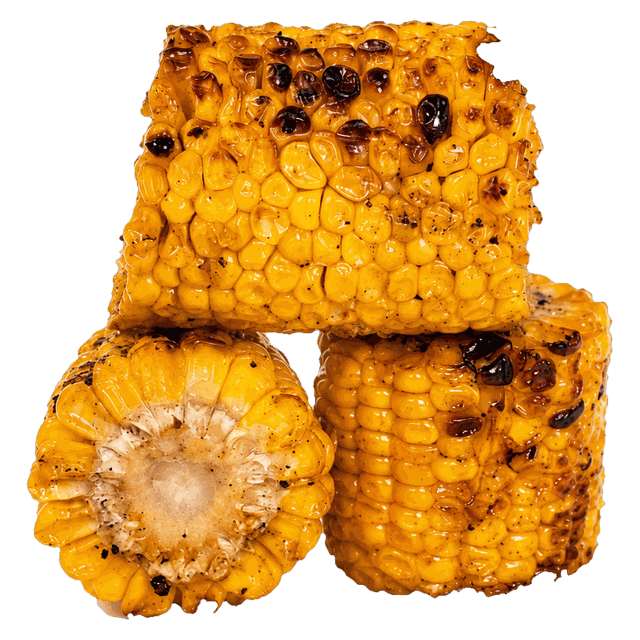
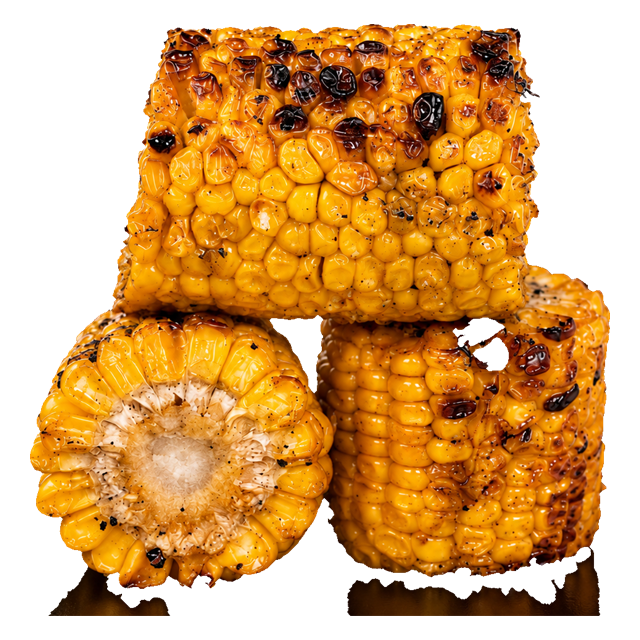
Кукурудза, соуси без відображення і ключ -CropBottom
Номер 11 у списку — кукурудза, а не 6: під шостим луковi кільця.
Власник підтвердив, фото поставлено.

Дзеркальне відображення на глянцевому столі торкається самого товару,
тож -Specks його не бере: окремим острівцем воно не рахується. Додано
-CropBottom — відрізає низ кадру ще до різання фону.

Підбирати доводиться на око: зайвий відсоток зрізає денця, страва
виглядає обрубаною. У соусів 25 (на 32 вже різало стаканчики), у
кукурудзи 16 разом зі -Specks 1.5. Легкий залишок унизу читається як
тінь.

Дорогою впіймано два зіткнення імен у PowerShell: локальна змінна
$keep збігалася з ключем -Keep, а $g у допоміжному скрипті — з
параметром зеленого каналу. Обидві перейменовано.

Зі скрипта прибрано останній символ поза ASCII: у коментарі стояло
довге тире, а файл має лишатися чистим — PowerShell 5.1 читає .ps1
як ANSI.

diff --git a/tools/README.md b/tools/README.md
@@ -160,3 +160,20 @@ powershell -ExecutionPolicy Bypass -File tools\sheet.ps1 `
 
 Аркуш за замовчуванням 5 на 4 клітинки; розмір задається ключами
 `-Cols`, `-Rows`, `-Cell`.
+
+### Відображення, що примикає до товару
+
+Глянцевий стіл дає під стравою дзеркальне відображення, і воно
+торкається самого товару. `-Specks` тут безсилий: окремим острівцем
+воно не рахується. Єдиний певний шлях — відрізати низ кадру ще до
+різання фону:
+
+```
+powershell -ExecutionPolicy Bypass -File tools\cutout.ps1 `
+  -In "sousy.png" -Out "photo\sousy.png" -Dark -CropBottom 25
+```
+
+Підбирайте на око: зайвий відсоток — і в страви зрізає денця, вони
+виглядають обрубаними. У соусів зупинилися на 25, у кукурудзи на 16
+разом зі `-Specks 1.5`. Легкий залишок унизу читається як тінь і не
+заважає.
